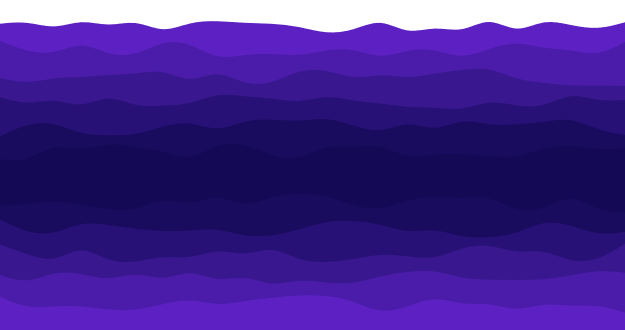
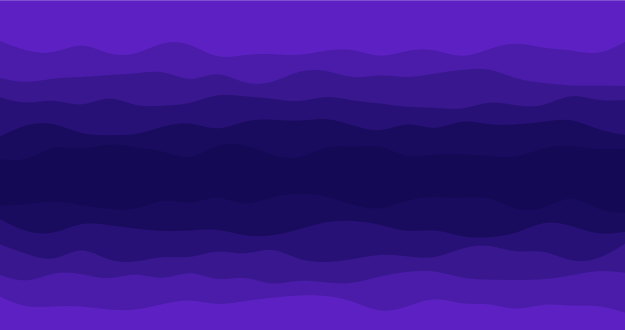
Theme brought in via color

Changed region(s): [[0.0, 0.0, 1.0, 0.1212]]

diff --git a/src/components/NavBar.js b/src/components/NavBar.js
@@ -4,16 +4,17 @@ class NavBar extends HTMLElement {
         super();
         this.navbar = document.querySelector('nav-bar');
         this.template = `
-        <header class= "bg-white">
+        <header>
             <nav class="mx-auto flex max-w-7xl items-center justify-between p-6 lg:px-8" aria-label="Global">
             <div class="flex lg:flex-1">
                 <a href="#" class="-m-1.5 p-1.5">
                     <span class="sr-only">Infinity India</span>
-                    <img class="h-8 w-auto border-solid border-2 rounded-full border-red-600" src="./public/images/logo/logo.jpeg" alt="Infinity India">
+                    <img class="h-8 w-auto border-solid border-2 rounded-full border-red-600" src="./public/images/logo/logo.jpeg" alt="Infinity India">                    
                 </a>
+                
                 </div>
                 <div class="flex lg:hidden"> 
-                <button id="hamburger" type="button" class="-m-2.5 inline-flex items-center justify-center rounded-md p-2.5 text-gray-700">
+                <button id="hamburger" type="button" class="-m-2.5 inline-flex items-center justify-center rounded-md p-2.5 text-blue-50" hover:text-blue-400>
                     <span class="sr-only">Open main menu</span>
                     <svg class="h-6 w-6" fill="none" viewBox="0 0 24 24" stroke-width="1.5" stroke="currentColor" :aria-hidden="isOpen">
                     <path stroke-linecap="round" stroke-linejoin="round" d="M3.75 6.75h16.5M3.75 12h16.5m-16.5 5.25h16.5" />
@@ -48,9 +49,9 @@ class NavBar extends HTMLElement {
                     x-on:click="toggle()"
                     :aria-expanded="open"
                     :aria-controls="$id('dropdown-button')" 
-                    class="flex items-center gap-x-1 text-sm font-semibold leading-6 text-gray-900">
+                    class="flex items-center gap-x-1 text-sm font-semibold leading-6 text-blue-100 hover:text-blue-400">
                     Our Services
-                    <svg class="h-5 w-5 flex-none text-gray-400 chevron" viewBox="0 0 20 20" fill="currentColor" aria-hidden="true">
+                    <svg class="h-5 w-5 flex-none text-blue-100 hover:text-blue-400 chevron" viewBox="0 0 20 20" fill="currentColor" aria-hidden="true">
                         <path fill-rule="evenodd" d="M5.23 7.21a.75.75 0 011.06.02L10 11.168l3.71-3.938a.75.75 0 111.08 1.04l-4.25 4.5a.75.75 0 01-1.08 0l-4.25-4.5a.75.75 0 01.02-1.06z" clip-rule="evenodd" />
                     </svg>
                     </button>
@@ -78,7 +79,7 @@ class NavBar extends HTMLElement {
                     <div class="p-4">
                         <div class="group relative flex items-center gap-x-6 rounded-lg p-4 text-sm leading-6 hover:bg-gray-50">
                         <div class="flex h-11 w-11 flex-none items-center justify-center rounded-lg bg-gray-50 group-hover:bg-white">
-                            <i class="fa-solid fa-mosquito-net fa-shake fa-xl group-hover:text-indigo-600""></i>                            
+                            <i class="fa-solid fa-mosquito-net fa-shake text-gray-900 fa-xl group-hover:text-indigo-600"></i>                            
                             <path stroke-linecap="round" stroke-linejoin="round" d="M10.5 6a7.5 7.5 0 107.5 7.5h-7.5V6z" />
                             <path stroke-linecap="round" stroke-linejoin="round" d="M13.5 10.5H21A7.5 7.5 0 0013.5 3v7.5z" />
                             </svg>
@@ -93,7 +94,7 @@ class NavBar extends HTMLElement {
                         </div>
                         <div class="group relative flex items-center gap-x-6 rounded-lg p-4 text-sm leading-6 hover:bg-gray-50">
                         <div class="flex h-11 w-11 flex-none items-center justify-center rounded-lg bg-gray-50 group-hover:bg-white">
-                        <i class="fa-regular fa-image fa-xl group-hover:text-indigo-600"></i>
+                        <i class="fa-regular fa-image fa-xl text-gray-900 group-hover:text-indigo-600"></i>
                             <path stroke-linecap="round" stroke-linejoin="round" d="M15.042 21.672L13.684 16.6m0 0l-2.51 2.225.569-9.47 5.227 7.917-3.286-.672zM12 2.25V4.5m5.834.166l-1.591 1.591M20.25 10.5H18M7.757 14.743l-1.59 1.59M6 10.5H3.75m4.007-4.243l-1.59-1.59" />
                             </svg>
                         </div>
@@ -107,7 +108,7 @@ class NavBar extends HTMLElement {
                         </div>
                         <div class="group relative flex items-center gap-x-6 rounded-lg p-4 text-sm leading-6 hover:bg-gray-50">
                         <div class="flex h-11 w-11 flex-none items-center justify-center rounded-lg bg-gray-50 group-hover:bg-white">
-                            <i class="fa-solid fa-brush fa-xl group-hover:text-indigo-600"></i>
+                            <i class="fa-solid fa-brush fa-xl text-gray-900 group-hover:text-indigo-600"></i>
                             <path stroke-linecap="round" stroke-linejoin="round" d="M7.864 4.243A7.5 7.5 0 0119.5 10.5c0 2.92-.556 5.709-1.568 8.268M5.742 6.364A7.465 7.465 0 004.5 10.5a7.464 7.464 0 01-1.15 3.993m1.989 3.559A11.209 11.209 0 008.25 10.5a3.75 3.75 0 117.5 0c0 .527-.021 1.049-.064 1.565M12 10.5a14.94 14.94 0 01-3.6 9.75m6.633-4.596a18.666 18.666 0 01-2.485 5.33" />
                             </svg>
                         </div>
@@ -121,7 +122,7 @@ class NavBar extends HTMLElement {
                         </div>
                         <div class="group relative flex items-center gap-x-6 rounded-lg p-4 text-sm leading-6 hover:bg-gray-50">
                         <div class="flex h-11 w-11 flex-none items-center justify-center rounded-lg bg-gray-50 group-hover:bg-white">
-                            <i class="fa-solid fa-warehouse fa-xl"></i>
+                            <i class="fa-solid fa-warehouse fa-xl text-gray-900 group-hover:text-indigo-600"></i>
                         </div>
                         <div class="flex-auto">
                             <a href="#" class="block font-semibold text-gray-900">
@@ -150,12 +151,12 @@ class NavBar extends HTMLElement {
                     </div>
                 </div>
 
-                <a href="#category" class="text-sm font-semibold leading-6 text-gray-900">Collections</a>
-                <a href="#" class="text-sm font-semibold leading-6 text-gray-900">Marketplace</a>
-                <a href="#" class="text-sm font-semibold leading-6 text-gray-900">Company</a>
+                <a href="#category" class="text-sm font-semibold leading-6 text-blue-100 hover:text-blue-400">Collections</a>
+                <a href="#" class="text-sm font-semibold leading-6 text-blue-100 hover:text-blue-400">Marketplace</a>
+                <a href="#" class="text-sm font-semibold leading-6 text-blue-100 hover:text-blue-400">Company</a>
                 </div>
                 <!--<div class="hidden lg:flex lg:flex-1 lg:justify-end">
-                <a href="#" class="text-sm font-semibold leading-6 text-gray-900">Log in <span aria-hidden="true">&rarr;</span></a>
+                <a href="#" class="text-sm font-semibold leading-6 text-blue-100 hover:text-blue-400">Log in <span aria-hidden="true">&rarr;</span></a>
                 </div>-->
             </nav>
 

diff --git a/dist/output.css b/dist/output.css
@@ -1400,10 +1400,6 @@ select {
   padding-bottom: 1.5rem;
 }
 
-.pb-10 {
-  padding-bottom: 2.5rem;
-}
-
 .pl-20 {
   padding-left: 5rem;
 }
@@ -1500,6 +1496,16 @@ select {
 
 .tracking-tight {
   letter-spacing: -0.025em;
+}
+
+.text-blue-100 {
+  --tw-text-opacity: 1;
+  color: rgb(219 234 254 / var(--tw-text-opacity));
+}
+
+.text-blue-50 {
+  --tw-text-opacity: 1;
+  color: rgb(239 246 255 / var(--tw-text-opacity));
 }
 
 .text-gray-400 {
@@ -1626,6 +1632,23 @@ body{
   position: relative;
 }
 
+img {
+  height: 100%;
+  border-bottom: 4px solid rgb(150, 0, 0);
+}
+
+footer,header{
+  background: url('../public/images/layered-waves-haikei\(1\).png') no-repeat center center/cover;
+}
+
+footer img {
+  border: none;
+}
+
+header{
+  border-bottom: 3px solid rgb(150, 0, 0);
+}
+
 .whatsapp{
   position: absolute;
   display: inline-block;
@@ -1649,6 +1672,10 @@ body{
 
 #loader{
   width: 70%;
+}
+
+#hero{
+  background: url('../public/images/hero-bg.png') no-repeat center center/cover;
 }
 
 #feature-image{
@@ -1686,7 +1713,11 @@ body{
   cursor: pointer;
   background: none;
   border: none;
-  color: white;
+  color: rgb(231, 228, 255);
+}
+
+.carousel-btn:hover{
+  color: rgb(152, 152, 241)
 }
 
 .prev-btn {
@@ -1700,6 +1731,10 @@ body{
 #hamburger {
   z-index: 100;
   cursor: pointer;
+}
+
+#hamburger:hover svg{
+  color: rgb(152, 152, 241)
 }
 
 h1,h2,h3 {
@@ -1777,10 +1812,6 @@ h1,h2,h3 {
   margin: 0 1rem;
   box-shadow: 0px 0px 15px 0px blue;
   border-radius: 10px;
-}
-
-footer{
-  background: url('../public/images/layered-waves-haikei\(1\).png') no-repeat center center/cover;
 }
 
 @media (min-width: 640px) {
@@ -1865,6 +1896,11 @@ footer{
 .hover\:bg-indigo-500:hover {
   --tw-bg-opacity: 1;
   background-color: rgb(99 102 241 / var(--tw-bg-opacity));
+}
+
+.hover\:text-blue-400:hover {
+  --tw-text-opacity: 1;
+  color: rgb(96 165 250 / var(--tw-text-opacity));
 }
 
 .hover\:text-gray-900:hover {
@@ -2062,6 +2098,11 @@ footer{
   .md\:justify-between {
     justify-content: space-between;
   }
+
+  .md\:py-3 {
+    padding-top: 0.75rem;
+    padding-bottom: 0.75rem;
+  }
 }
 
 @media (min-width: 1024px) {
@@ -2216,6 +2257,11 @@ footer{
     color: rgb(255 255 255 / var(--tw-text-opacity));
   }
 }
+
+ 
+
+
+
 
 
 

diff --git a/primo.html b/primo.html
@@ -3,7 +3,7 @@
 <head>
     <meta charset="UTF-8">
     <meta name="viewport" content="width=device-width, initial-scale=1.0">
-    <title>BM Wall | 100% Professional</title>
+    <title>Primo catalogue | Infinity India</title>
     <link href="https://cdnjs.cloudflare.com/ajax/libs/flowbite/2.2.1/flowbite.min.css" rel="stylesheet" />
     <link rel="shortcut icon" href="../public/images/favicon.ico" type="image/x-icon">
     <link rel="preconnect" href="https://fonts.googleapis.com">
@@ -18,24 +18,12 @@
     <script defer src="https://cdn.jsdelivr.net/npm/alpinejs@3.13.3/dist/cdn.min.js"></script>
 </head>
 <body>
-    <whatsapp-icon></whatsapp-icon>       
     <nav-bar></nav-bar>
-    <hero-section id="hero"></hero-section>
-    <category-previews></category-previews>
-    <feature-section></feature-section>
-    <best-sellers></best-sellers>
-    <contact-form></contact-form>
-    <testimonials-section></testimonials-section> 
+    <primo-catalogue></primo-catalogue>
     <footer-bar></footer-bar>
-    <script src="https://cdnjs.cloudflare.com/ajax/libs/flowbite/2.2.1/flowbite.min.js"></script>    
-    <script src="./src/components/NavBar.js"></script>  
-    <script src="./src/components/HeroSection.js"></script>  
-    <script src="./src/components/CategoryPreviews.js"></script>
-    <script src="./src/components/FeatureSection.js"></script>
-    <script src="./src/components/BestSellers.js"></script>
-    <script src="./src/components/ContactForm.js"></script>
-    <script src="./src/components/WhatsappIcon.js"></script>
-    <script src="./src/components/Testimonials.js"></script>
-    <script src="./src/components/Footer.js"></script>
+    <script src="https://cdnjs.cloudflare.com/ajax/libs/flowbite/2.2.1/flowbite.min.js"></script>
+    <script src="../src/components/NavBar.js"></script>
+    <script src="../src/components/Footer.js"></script>
+    <script src="../src/components/PrimoCatalogue.js"></script>
 </body>
 </html>

diff --git a/src/style.css b/src/style.css
@@ -15,6 +15,24 @@ body{
     position: relative;
 }
 
+img {
+  height: 100%;
+  border-bottom: 4px solid rgb(150, 0, 0);
+}
+
+footer,header{    
+  background: url('../public/images/layered-waves-haikei\(1\).png') no-repeat center center/cover;    
+}
+
+footer img {
+  border: none;
+}
+
+header{
+  border-bottom: 3px solid rgb(150, 0, 0);
+}
+
+
 .whatsapp{
     position: absolute;
     display: inline-block;
@@ -41,6 +59,12 @@ body{
     width: 70%;
 }
 
+
+#hero{
+  background: url('../public/images/hero-bg.png') no-repeat center center/cover;
+
+}
+
 #feature-image{
     box-shadow: 0px 0px 15px 0px blue;
     transition: all ease 0.7s;
@@ -52,8 +76,7 @@ body{
 .carousel-container {
     position: relative;    
     overflow: hidden;
-    margin: auto;
-    
+    margin: auto;    
     align-items: center;
     justify-content: center;  
 }
@@ -67,9 +90,11 @@ body{
 
 
 .carousel-item {
-    flex: 0 0 100%;    
+    flex: 0 0 100%;   
     
 }
+
+
 
 .carousel-btn {
     position: absolute;
@@ -79,7 +104,11 @@ body{
     cursor: pointer;
     background: none;
     border: none;
-    color: white;
+    color: rgb(231, 228, 255);
+  }
+
+  .carousel-btn:hover{
+    color: rgb(152, 152, 241)
   }
 
   .prev-btn {
@@ -93,8 +122,11 @@ body{
 
 #hamburger {
     z-index: 100;
-    cursor: pointer;
-  
+    cursor: pointer;  
+}
+
+#hamburger:hover svg{
+  color: rgb(152, 152, 241)
 }
 
 
@@ -177,10 +209,10 @@ h1,h2,h3 {
     border-radius: 10px;
   }
 
-  footer{
-    background: url('../public/images/layered-waves-haikei\(1\).png') no-repeat center center/cover;
-    
-  }
+ 
+
+
+
 
 
 

diff --git a/src/components/HeroSection.js b/src/components/HeroSection.js
@@ -14,12 +14,14 @@ class HeroSection extends HTMLElement {
             
                   
         this.template = `
-        <div id="hero" class="carousel-container w-full md:w-9/12 lg:relative overflow-hidden pb-10">
-          <div class="carousel-wrapper flex">
-            <!-- Carousel items go here -->
-                              
+        <section id="hero">
+          <div class="carousel-container w-full md:w-9/12 lg:relative overflow-hidden py-0 md:py-3">
+            <div class="carousel-wrapper flex">
+              <!-- Carousel items go here -->
+                                
+            </div>
           </div>
-        </div>
+        <section>
         `;
     }
 

diff --git a/src/components/PrimoCatalogue.js b/src/components/PrimoCatalogue.js
@@ -1,0 +1,17 @@
+class PrimoCatalogue extends HTMLElement {
+
+    constructor(){
+        super();
+        this.template = `
+        <section class="catalogue">
+            <img src="../public/images/catalogues/primo/1.jpg" alt="primo">
+        </section>
+        `;
+    }
+
+    connectedCallback(){
+        this.innerHTML = this.template;
+    }
+}
+
+customElements.define('primo-catalogue',PrimoCatalogue);
